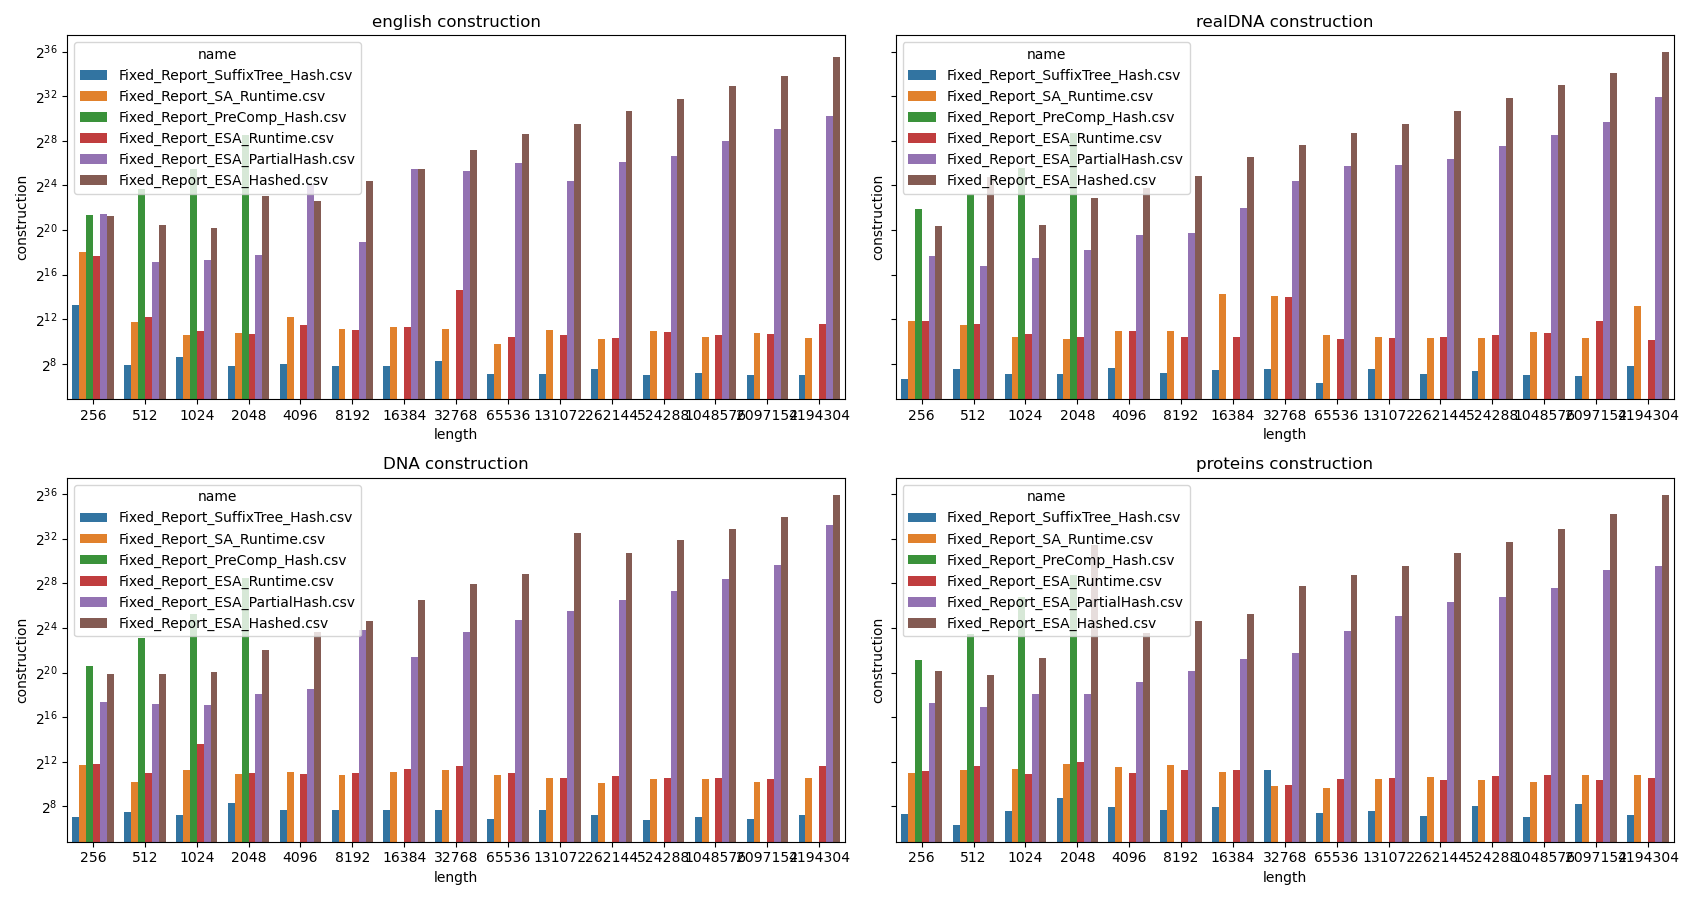
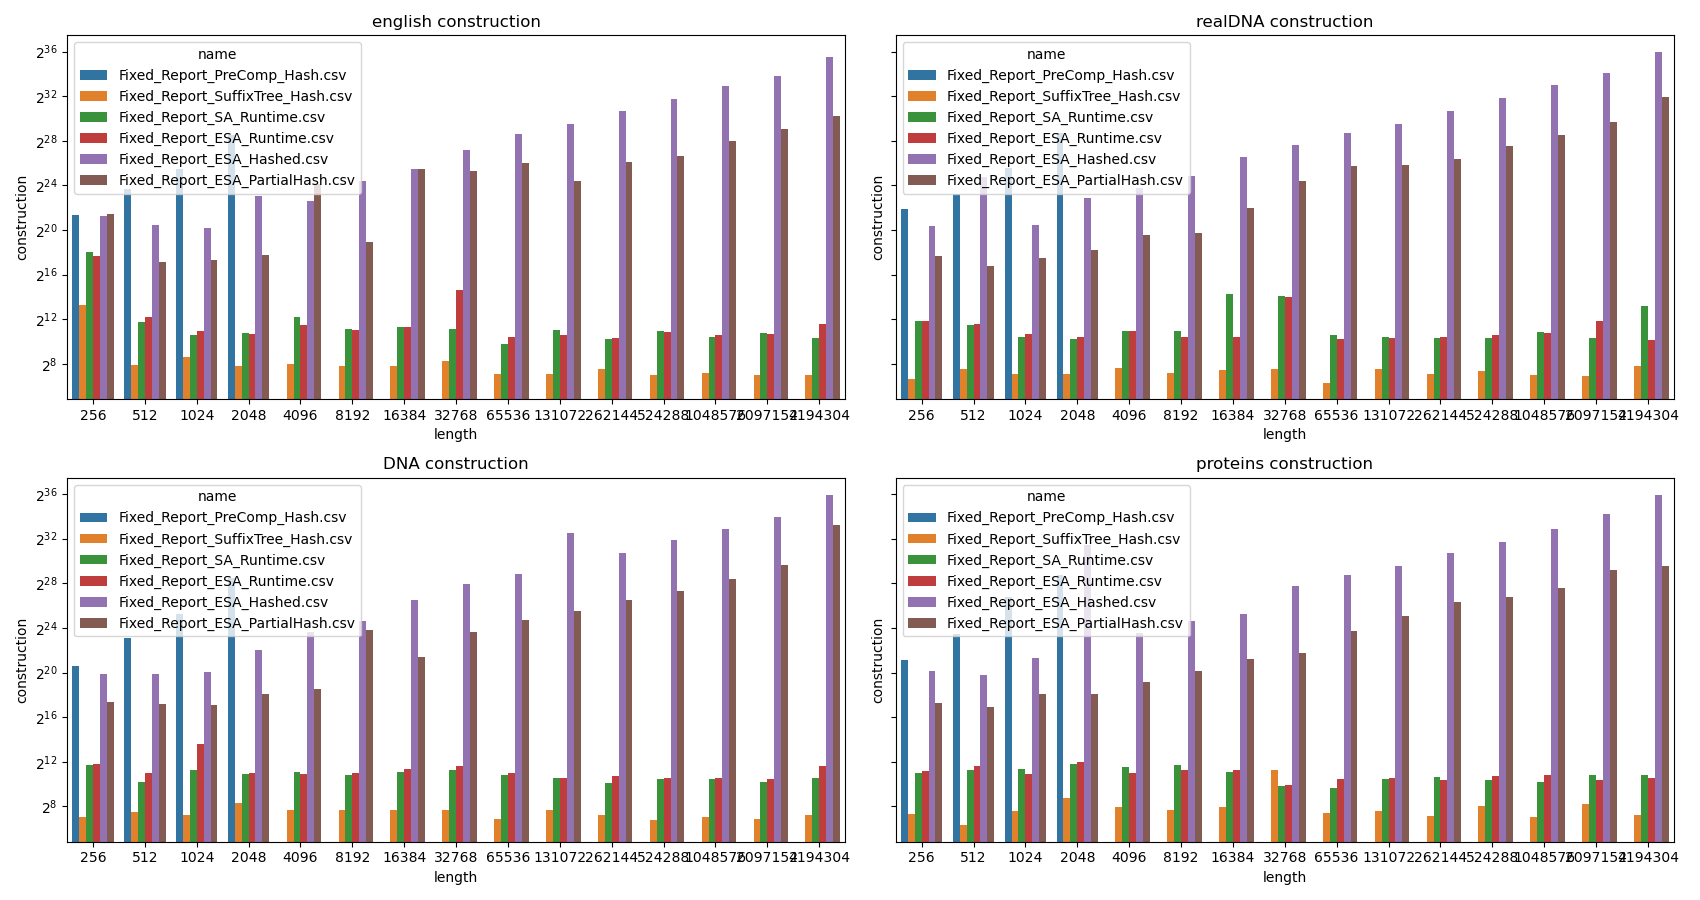
l

diff --git a/figures/createFixedReportingPlots.py b/figures/createFixedReportingPlots.py
@@ -6,7 +6,14 @@ import pandas as pd
 import matplotlib.pyplot as plt
 
 path = os.getcwd() + '\\Results\\'
-data_structures = [f for f in os.listdir(path) if os.path.isfile(os.path.join(path,f))]
+data_structures = [
+    'Fixed_Report_ESA_PartialHash.csv',
+    'Fixed_Report_ESA_Hashed.csv',
+    'Fixed_Report_ESA_Runtime.csv',
+    'Fixed_Report_SA_Runtime.csv',
+    'Fixed_Report_SuffixTree_Hash.csv',
+    'Fixed_Report_PreComp_Hash.csv'
+]
 
 """
 query = ['sptop','spmid','spbot','dptop','dpmid','dpbot', 'construction']
